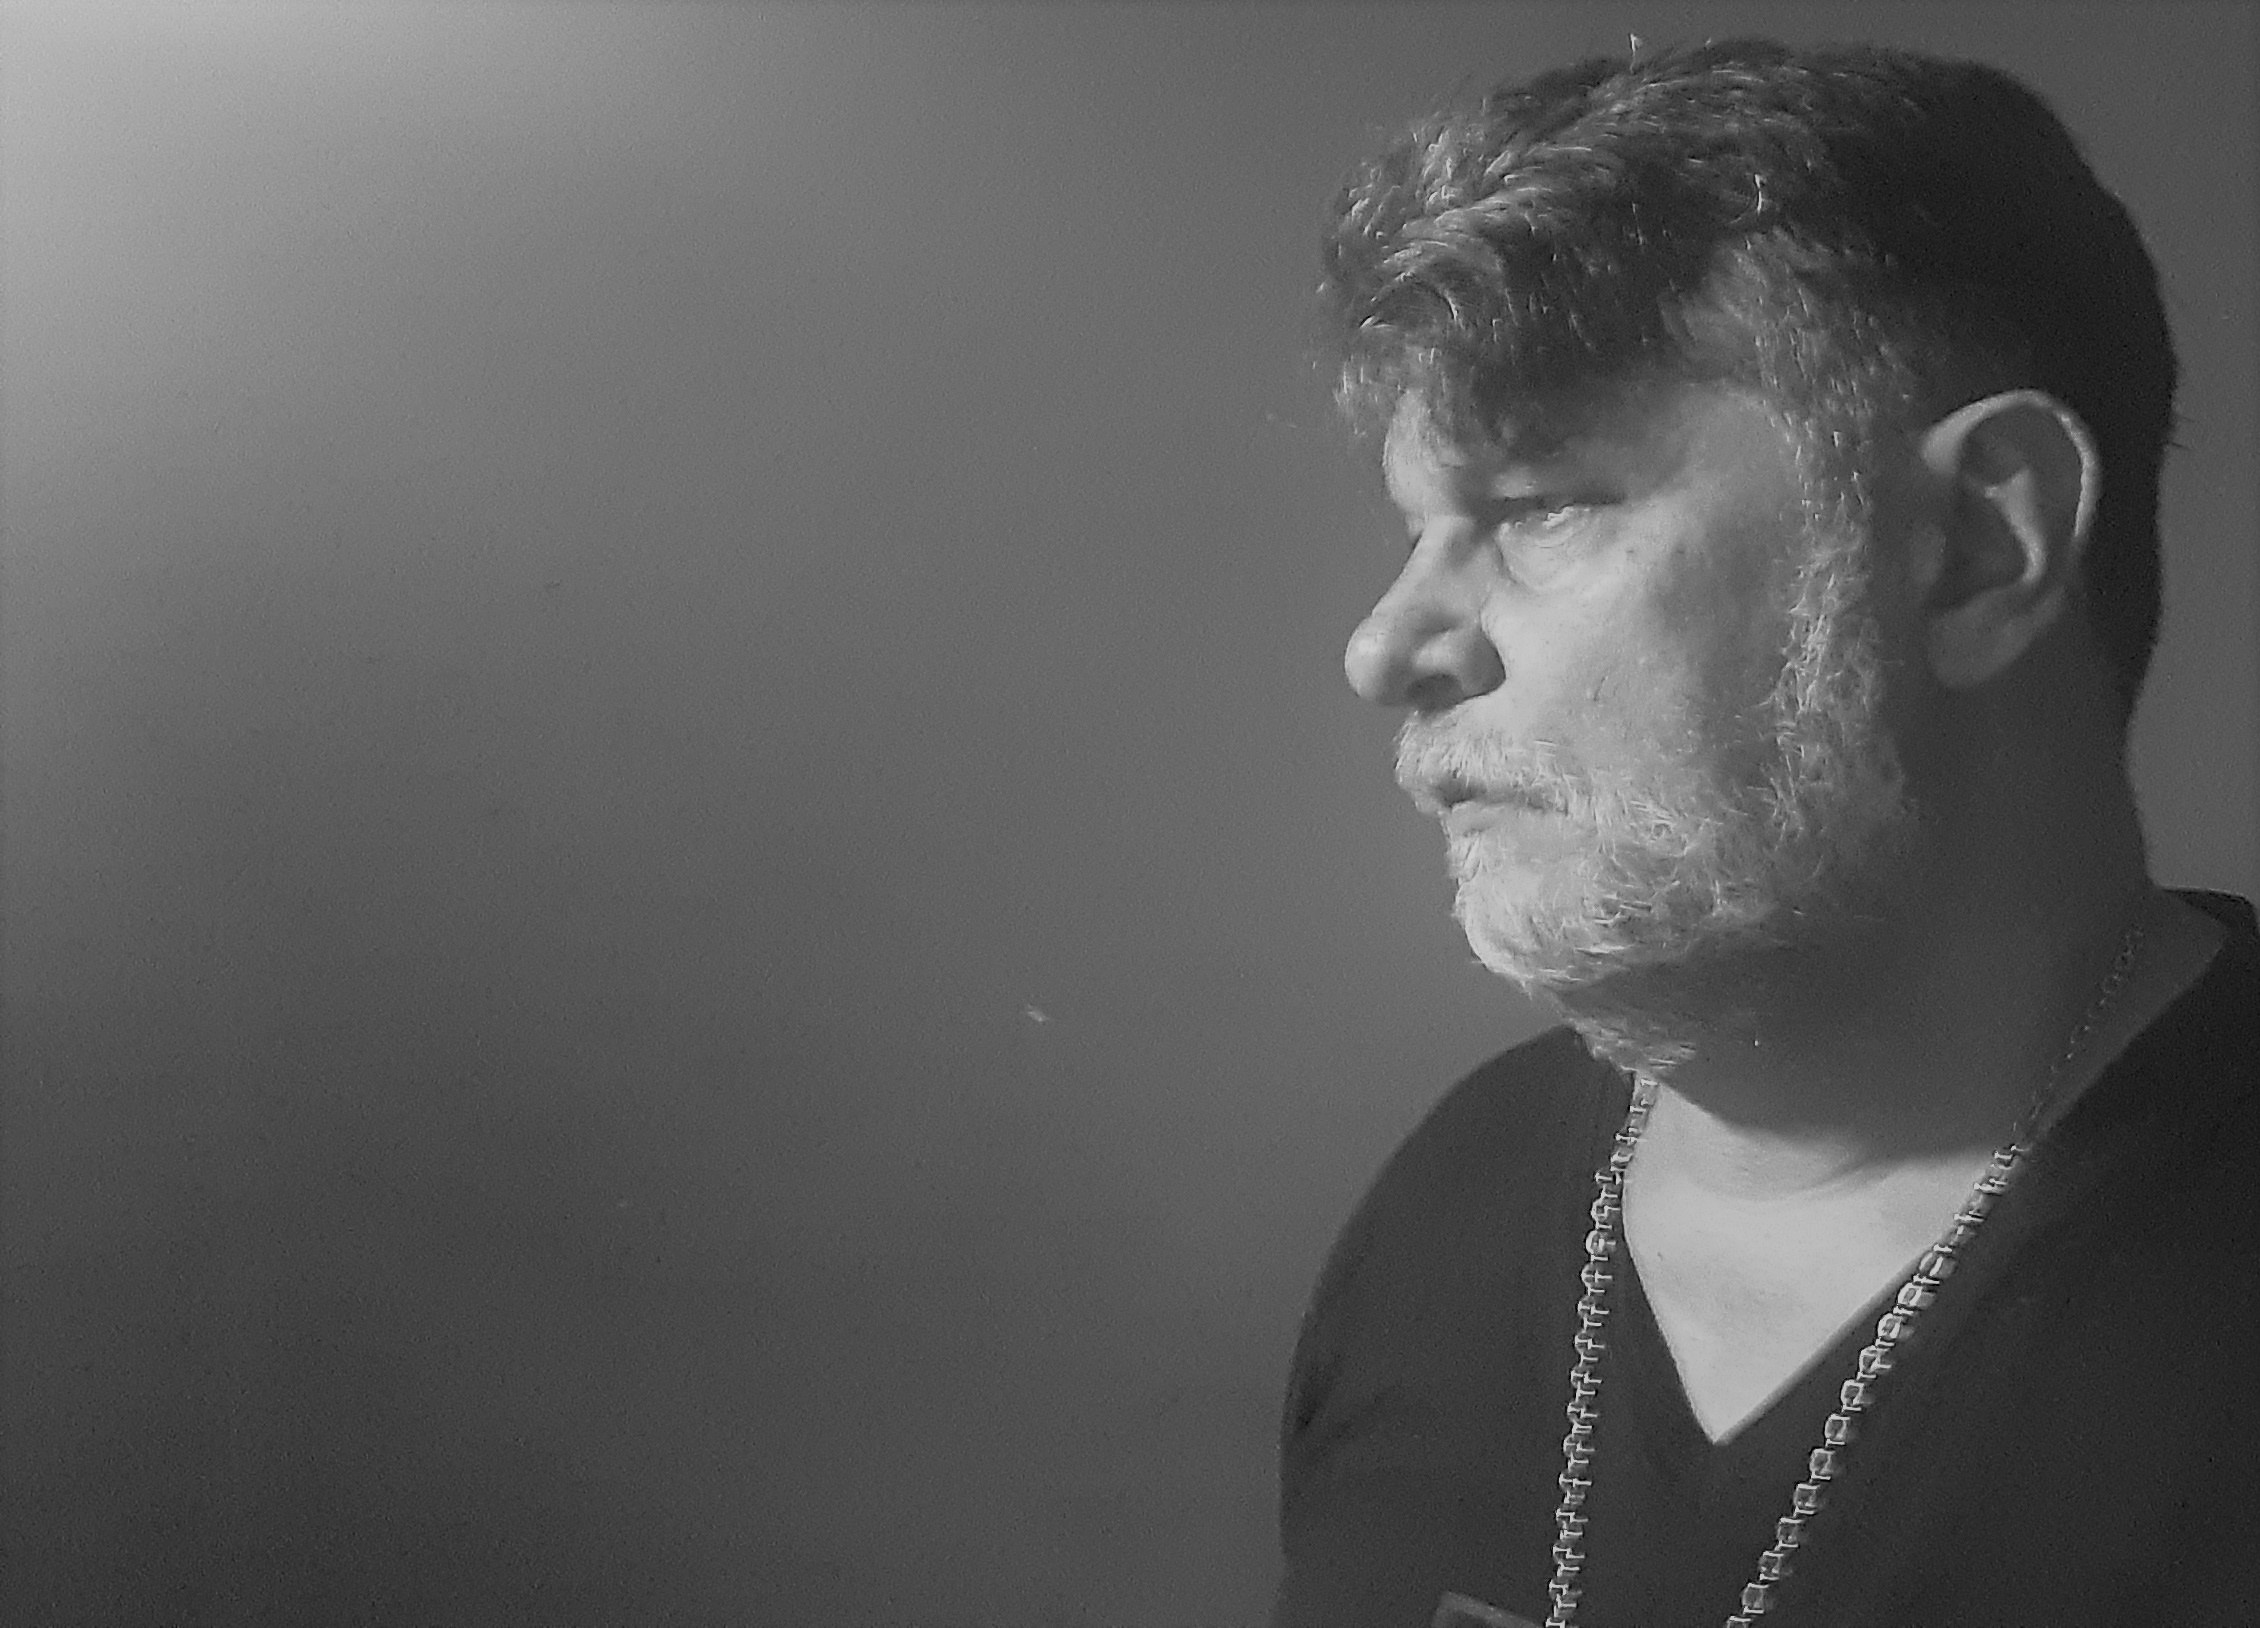
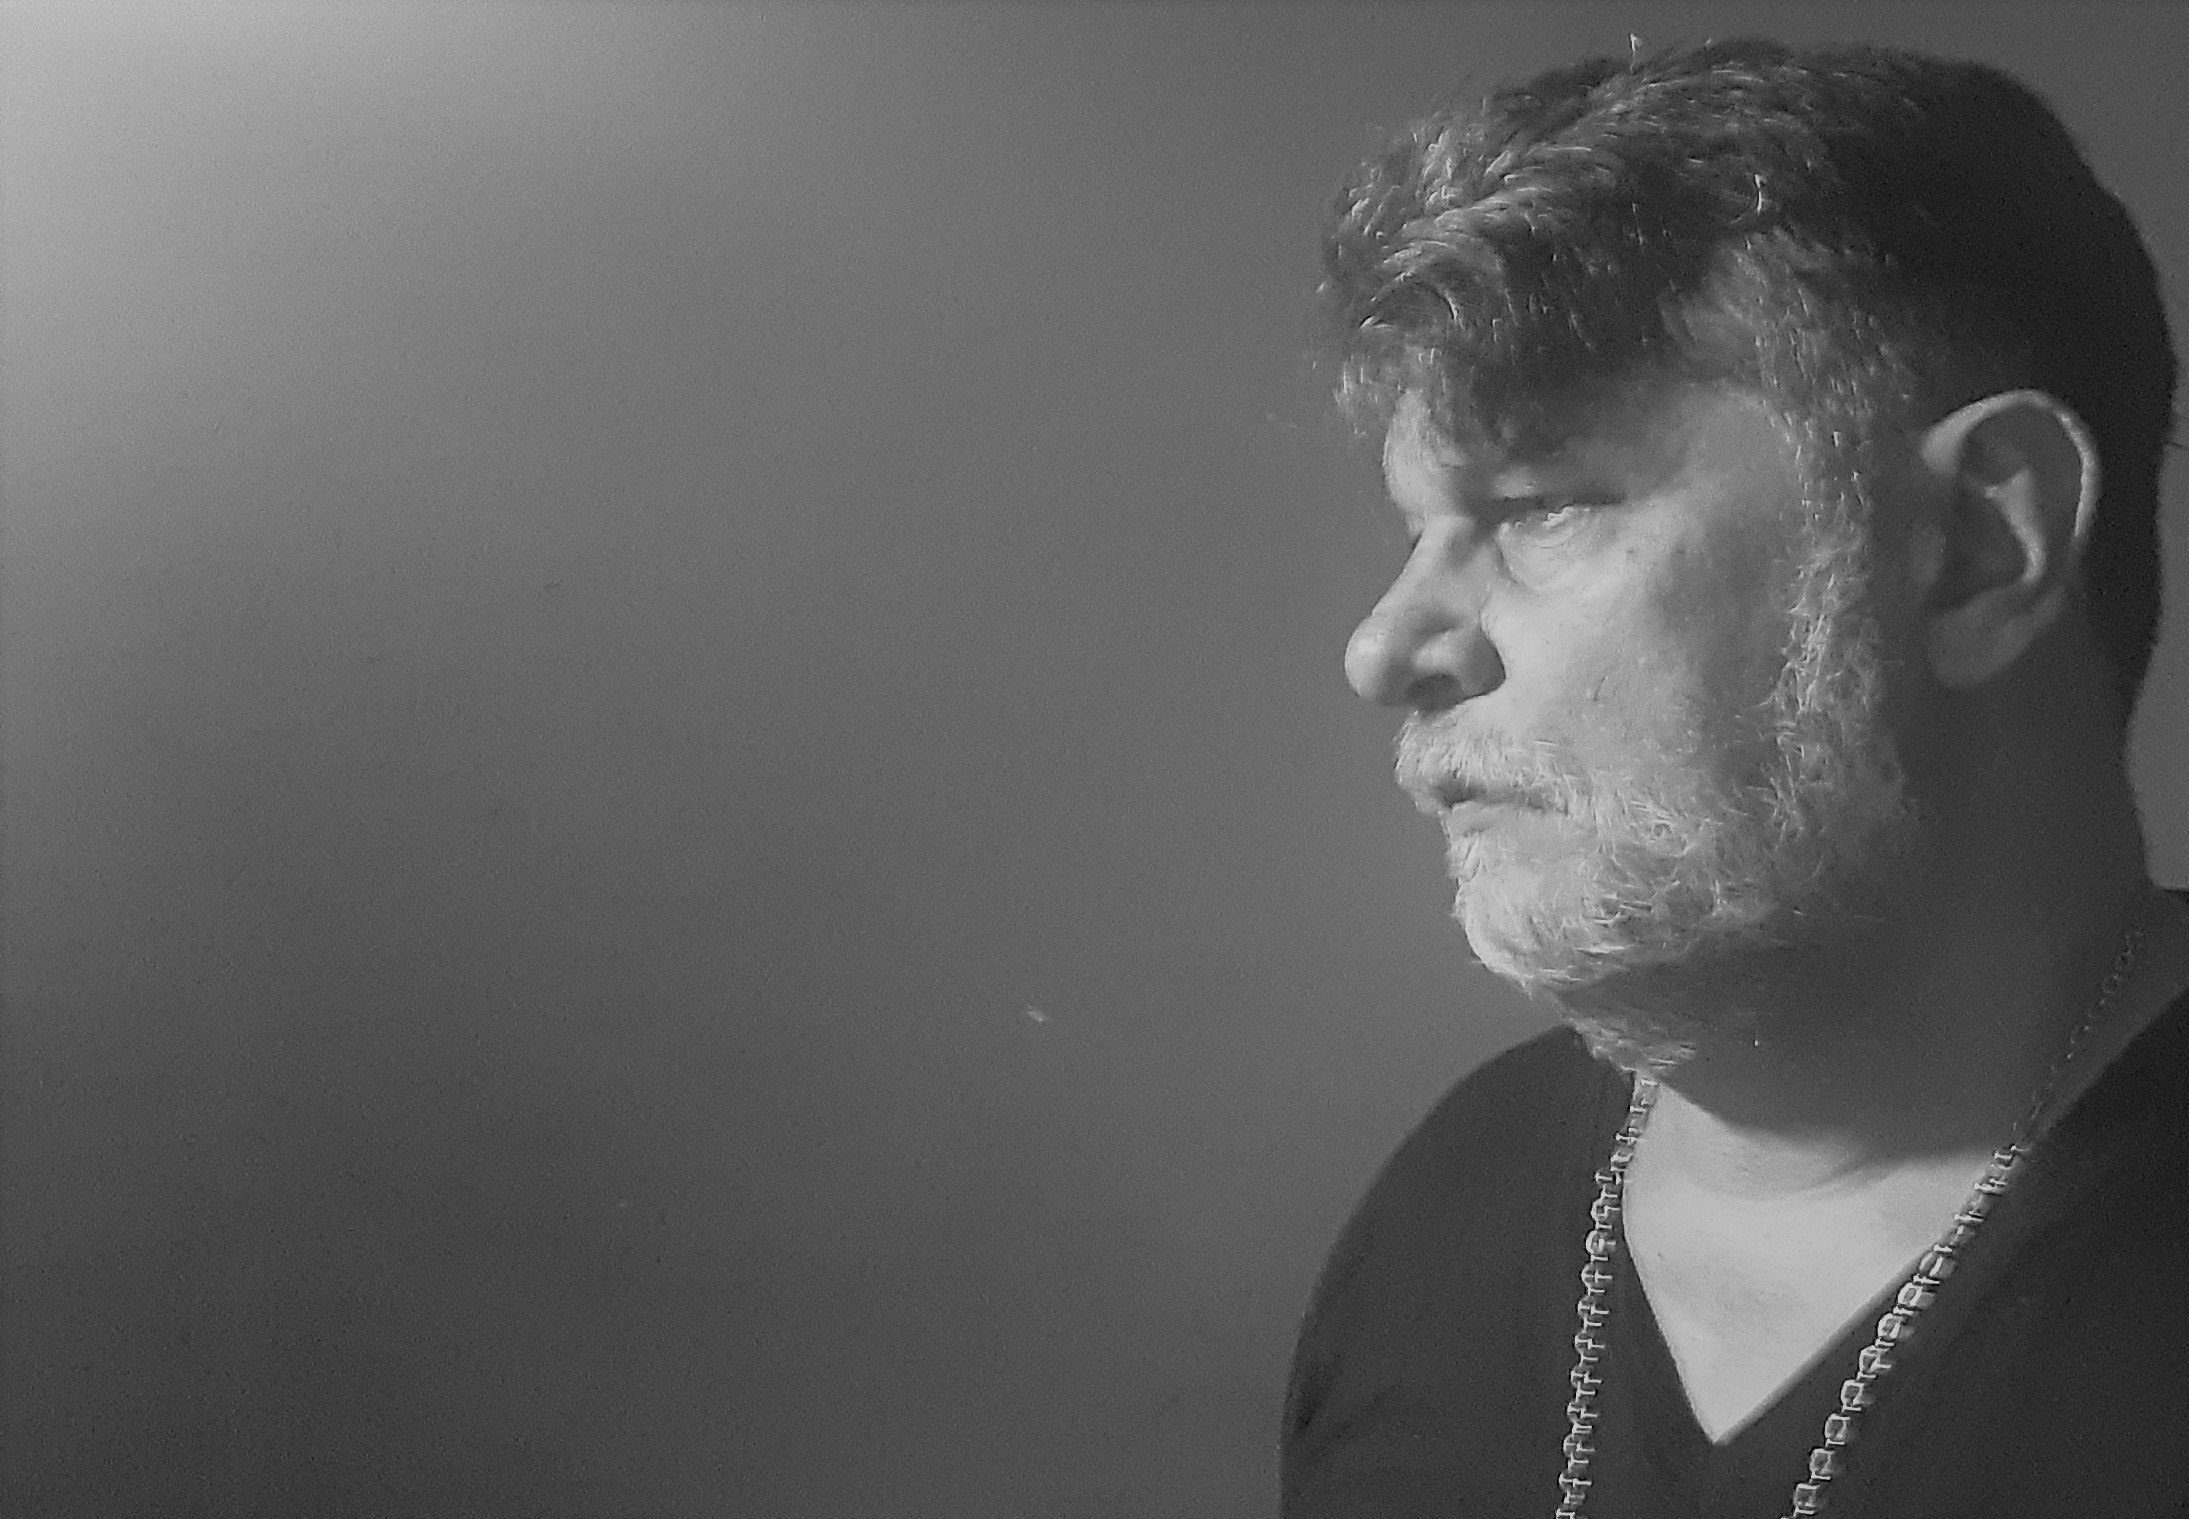
fixed hero image 2

Changed region(s): [[0.5592, 0.0309, 1.0, 1.0]]

diff --git a/assets/css/style.css b/assets/css/style.css
@@ -18,7 +18,7 @@ body {
 body::before {
   content: "";
   position: fixed;
-  background: #040404 url("../img/hero-caito2.jpg") top right no-repeat;
+  background: #040404 url("../img/hero-caito.jpg") top right no-repeat;
   background-size: cover;
   left: 0;
   right: 0;
